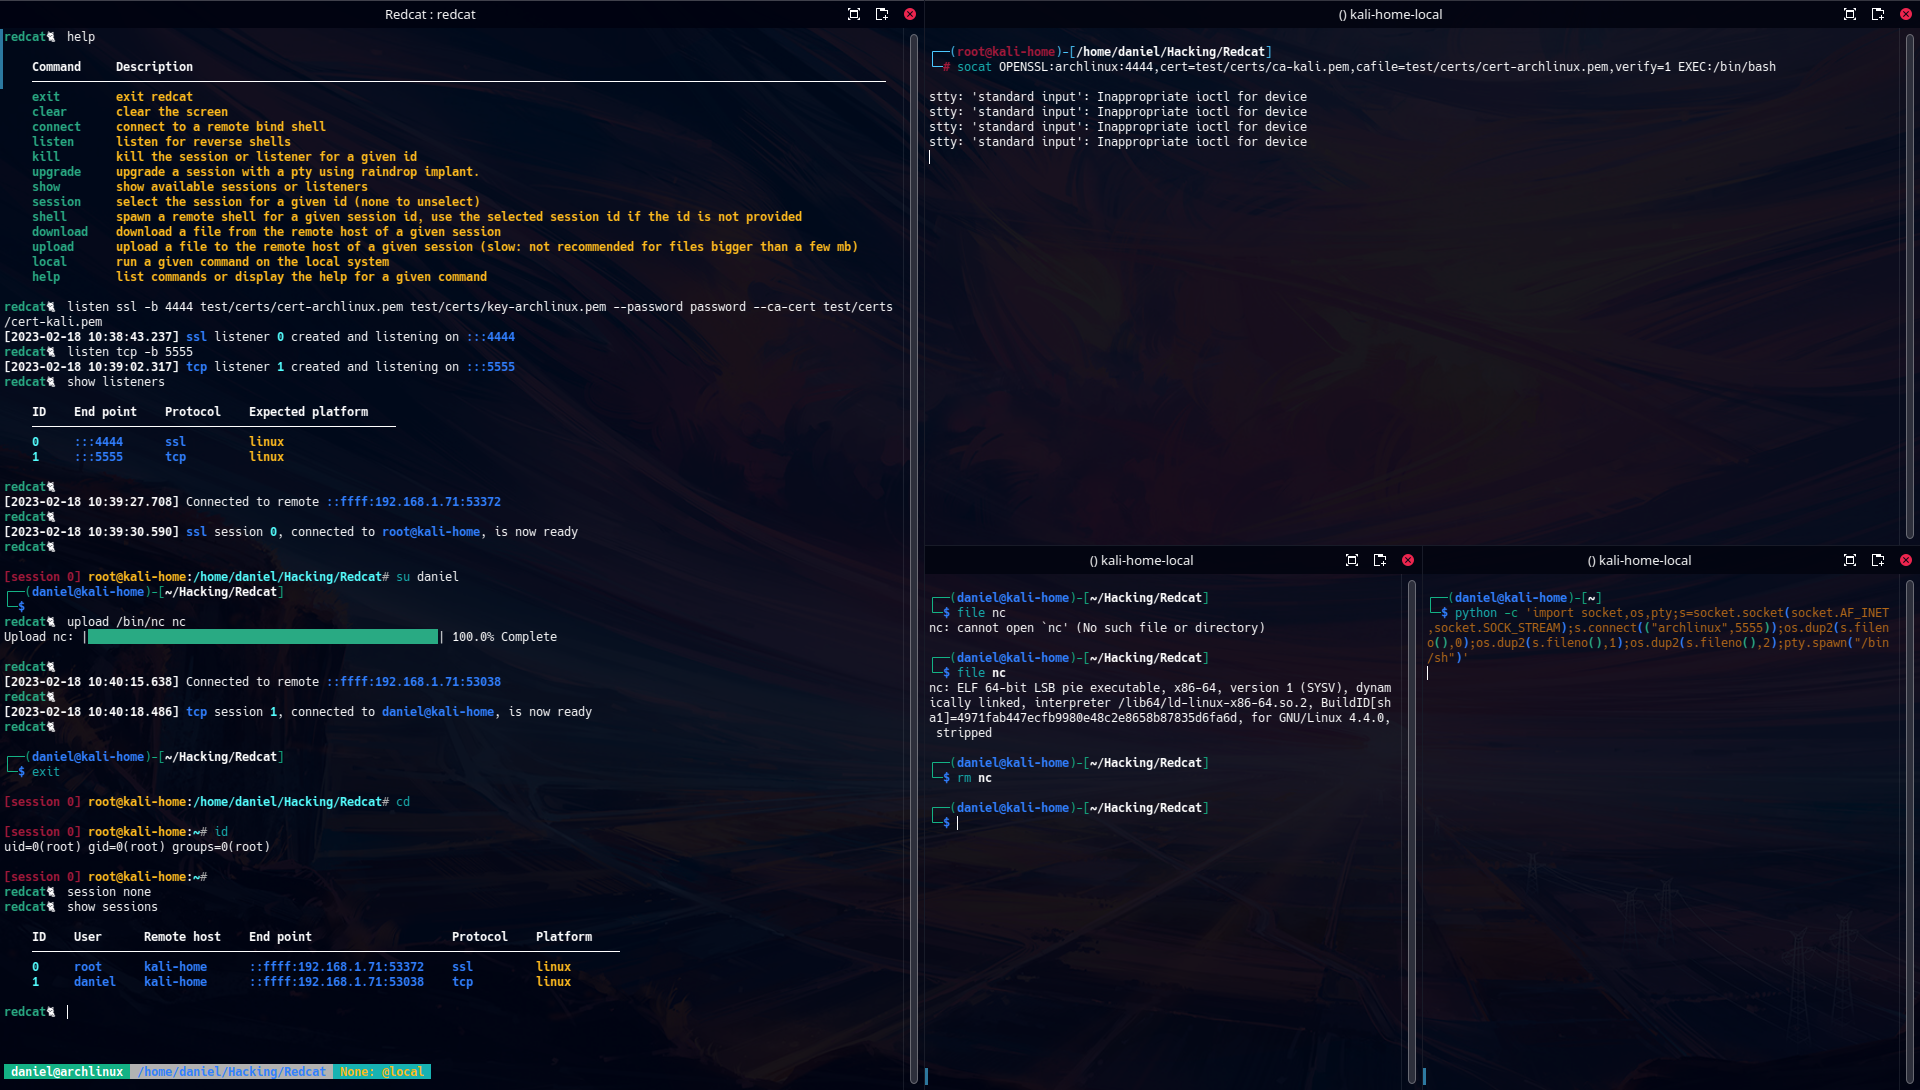
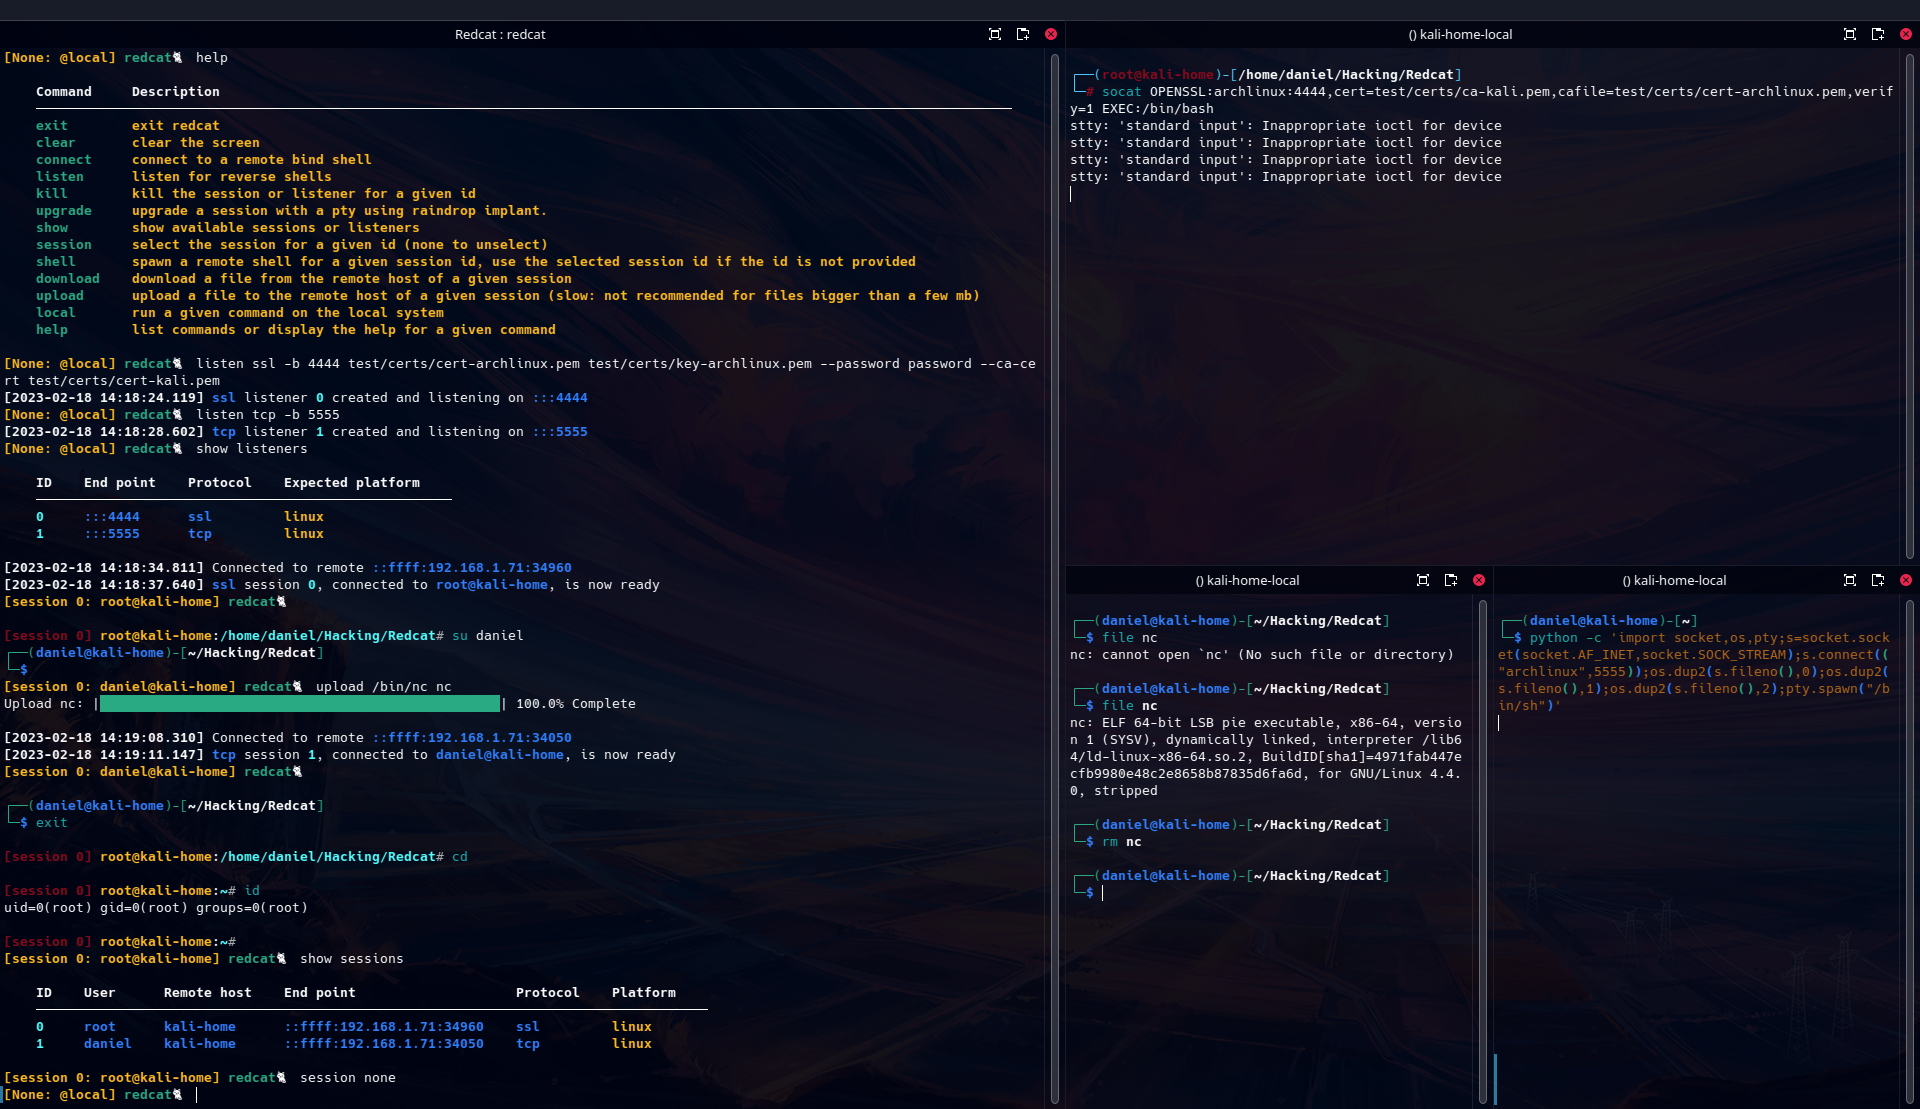
remove: bottom status bar, too broken

diff --git a/redcat/engine.py b/redcat/engine.py
@@ -9,7 +9,6 @@ import os
 import signal
 import time
 import datetime
-import getpass
 
 import redcat.style
 import redcat.command
@@ -22,9 +21,6 @@ class Engine(metaclass=redcat.utils.Singleton):
     def __init__(self, name: str) -> None:
         self.__name: str = name
         self.__running: bool = False
-        self.__user: str = getpass.getuser()
-        self.__hostname: str = os.uname()[1]
-        self.__cwd: str = os.getcwd()
         # lock on stdio
         self.__io_lock: threading.RLock = threading.RLock()
         # logs
@@ -442,7 +438,7 @@ class Engine(metaclass=redcat.utils.Singleton):
                 self.__logs.append(log)
 
     def __print_logs(self, logs: typing.List[str]) -> None:
-        sys.stdout.write("\n\r\033[K")
+        sys.stdout.write("\r\033[K")
         sys.stdout.flush()
         for log in logs:
             print(log, end="\n\r")
@@ -461,72 +457,16 @@ class Engine(metaclass=redcat.utils.Singleton):
     def __input(self, prompt: str) -> str:
         return input(prompt)
 
-    def get_cwd(self, max_length: int = 50) -> None:
-        cwd = self.__cwd
-        if len(self.__cwd) > max_length:
-            directories = self.__cwd.split("/")
-            if len(directories) > 2:
-                cwd = f"/{directories[1]}/…"
-                last_parts = ""
-                for directory in reversed(directories):
-                    if len(cwd) == 0:
-                        cwd = directory
-                    else:
-                        if len(cwd) + len(directory) + len(last_parts) + 1 < max_length:
-                            last_parts = "/" + directory + last_parts
-                        else:
-                            cwd += last_parts
-                            break
-        return cwd
-
-    def get_status(self) -> str:
+    def __get_prompt(self) -> str:
         info = self.__manager.get_session_info()
-        session_bg_color = redcat.style.bg_yellow
-        session_color = redcat.style.red
         if not info:
             info = "None: @local"
-            session_bg_color = redcat.style.bg_cyan
-            session_color = redcat.style.yellow
-        status = (
-            f"{redcat.style.bg_green(redcat.style.bold(' ' + self.__user + '@' + self.__hostname + ' '))}"
-            f"{redcat.style.bg_white(redcat.style.bold(redcat.style.blue(' ' + self.get_cwd() + ' ')))}" 
-            f"{session_bg_color(redcat.style.bold(session_color(' ' + info + ' ')))}" 
+        prompt = (
+            f"{redcat.style.bold(redcat.style.yellow('[' + info + ']'))}"
+            " "
+            f"{redcat.style.bold(redcat.style.green(self.__name))}🐈 "
         )
-        return status
-
-    def get_prompt_size(self) -> int:
-        return len(self.__name) + 2
-
-    def __get_prompt(self) -> str:
-        return f"{redcat.style.bold(redcat.style.green(self.__name))}🐈 "
-
-    def __remove_status(self) -> None:
-        with self.__io_lock:
-            redcat.utils.cursor_save_position()
-            redcat.utils.cursor_move_to_bottom()
-            redcat.utils.reset_line()
-            redcat.utils.cursor_back_save_point()
-
-    def __display_status(self) -> None:
-        with self.__io_lock:
-            status = self.get_status()
-            redcat.utils.cursor_save_position()
-            current_row, _ = redcat.utils.get_cursor_current_position()
-            bottom = redcat.utils.get_console_bottom_row()
-            if bottom - current_row < 1:
-                redcat.utils.reset_line()
-            for i in range(current_row, bottom):
-                redcat.utils.cursor_move_down()
-                redcat.utils.reset_line()
-            if bottom - current_row < 1:
-                redcat.utils.scroll_down()
-            redcat.utils.reset_line()
-            print(f"{status}", end="", flush=True)
-            if bottom - current_row < 1:
-                redcat.utils.cursor_move_up()
-                redcat.utils.cursor_move_to_line_start()
-            else:
-                redcat.utils.cursor_back_save_point()
+        return prompt
 
     def run(self) -> None:
         """
@@ -539,10 +479,8 @@ class Engine(metaclass=redcat.utils.Singleton):
         self.__manager.start()
         while self.__running:
             try:
-                self.__display_status()
                 prompt = self.__get_prompt()
                 cmd = self.__input(prompt)
-                self.__remove_status()
                 with self.__io_lock:
                     res, error = self.__call(cmd)
                 if not res:
@@ -568,4 +506,3 @@ class Engine(metaclass=redcat.utils.Singleton):
 
     def __exit__(self, type, value, traceback):
         self.__manager.clear()
-

diff --git a/redcat/utils.py b/redcat/utils.py
@@ -98,78 +98,3 @@ class Singleton(type):
         if cls not in cls._instances:
             cls._instances[cls] = super(Singleton, cls).__call__(*args, **kwargs)
         return cls._instances[cls]
-
-
-"""
-# cursor navigation functions
-"""
-
-def get_cursor_current_position() -> tuple[int, int]:
-    # Send the ANSI escape sequence to get the cursor position
-    row = 0
-    col = 0
-    old = termios.tcgetattr(sys.stdin)
-    _ = termios.tcgetattr(sys.stdin)
-    _[3] = _[3] & ~(termios.ECHO | termios.ICANON)
-    termios.tcsetattr(sys.stdin, termios.TCSAFLUSH, _)
-    try:
-        sys.stdout.write('\033[6n')
-        sys.stdout.flush()
-        # Read the response from the console
-        response = ''
-        while True:
-            char = sys.stdin.read(1)
-            if char == 'R':
-                break
-            response += char
-        # Parse the response to get the cursor position
-        parts = response.split(';')
-        row = int(parts[0][2:]) - 1
-        col = int(parts[1]) - 1
-    except:
-        pass
-    termios.tcsetattr(sys.stdin, termios.TCSAFLUSH, old)
-    return row, col
-
-def get_console_bottom_row():
-    _, rows = shutil.get_terminal_size()
-    return rows - 1
-
-def cursor_save_position():
-    print("\001\u001B[s\002", end="", flush=True)     # Save current cursor position
-
-def cursor_back_save_point():
-    print("\u001B[u", end="", flush=True)     # Jump back to saved cursor position
-
-def cursor_move_up(times: int = 1):
-    for i in range(times):
-        print("\001\u001B[A\002", end="", flush=True)     # Move cursor up one line
-
-def cursor_move_down(times: int = 1):
-    for i in range(times):
-        print("\001\u001B[B\002", end="", flush=True)     # Move cursor down one line
-
-def cursor_move_right(times: int = 1):
-    for i in range(times):
-        print("\001\u001B[C\002", end="", flush=True)     # Move cursor down one line
-
-def cursor_move_to_bottom():
-    _, rows = shutil.get_terminal_size()
-    print(f"\001\033[{rows};0H\002", end="", flush=True)
-    reset_line()
-
-def cursor_move_to_top():
-    rows, _ = shutil.get_terminal_size()
-    print("\001\033[0;0H\002", end="", flush=True)
-
-def cursor_move_to_line_start():
-    print("\001\u001B[999D\001", end="", flush=True)  # Move cursor to beginning of line
-
-def scroll_down():
-    print("\001\u001B[S\002", end="", flush=True)     # Scroll up/pan window down 1 line
-
-def insert_line():
-    print("\001\u001B[L\002", end="", flush=True)     # Insert new line
-
-def reset_line():
-    print("\r\033[K", end="", flush=True)
